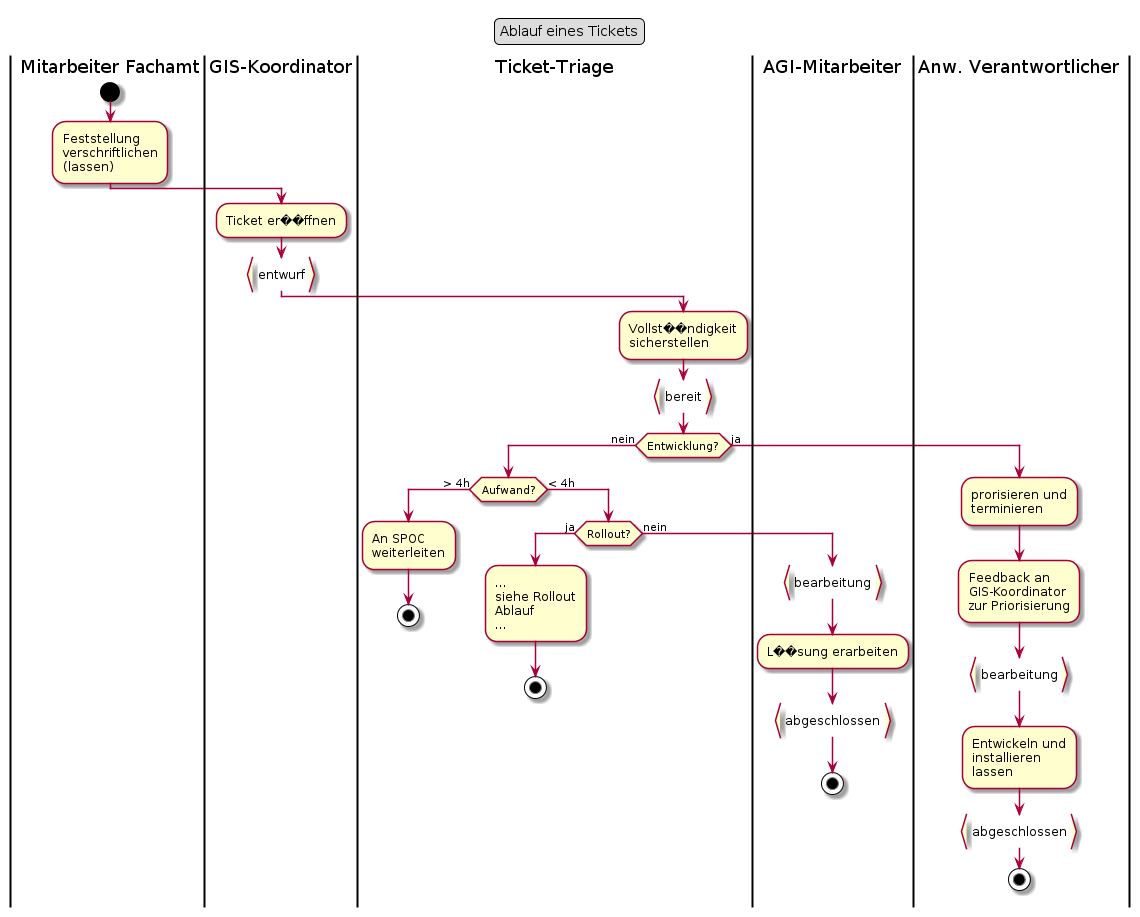
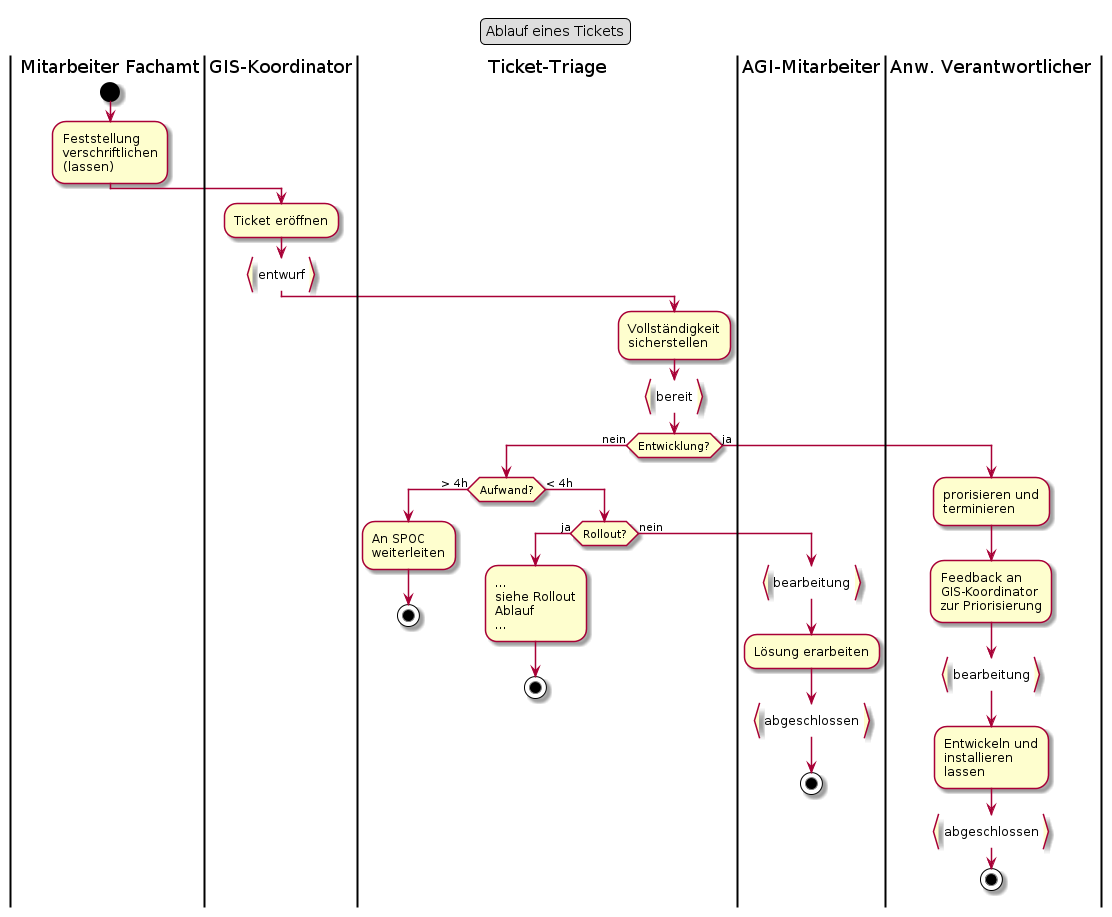
Diagramme mit Umlauten versehen

diff --git a/tick_und_auftraege.md b/tick_und_auftraege.md
@@ -16,7 +16,7 @@ Tickets aufgeführt, welche keinem Rollout zugewiesen sind.
 
 ## Auftrag
 
-![Auftrag](puml_output/flow_ablaeufe.png)
+![Auftrag](puml_output/flow_auftrag.png)
 
 ### Punktuelle Erläuterungen
  
